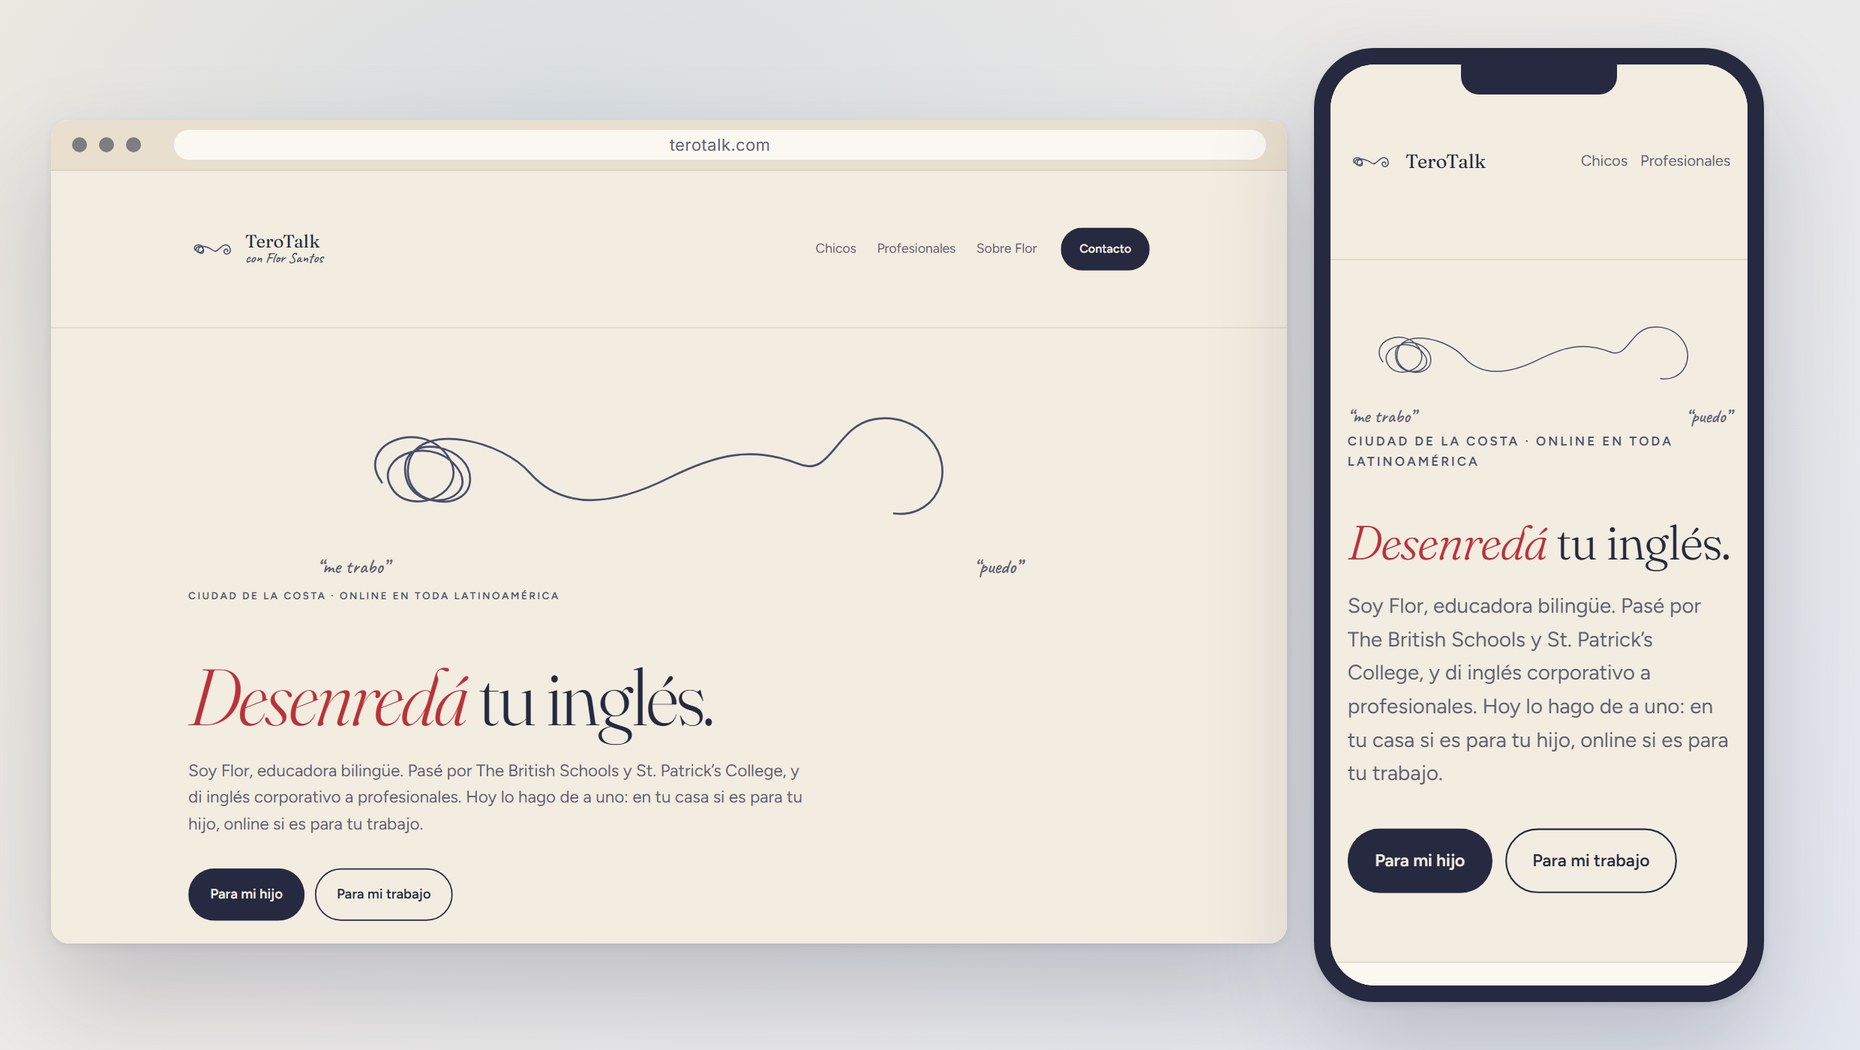
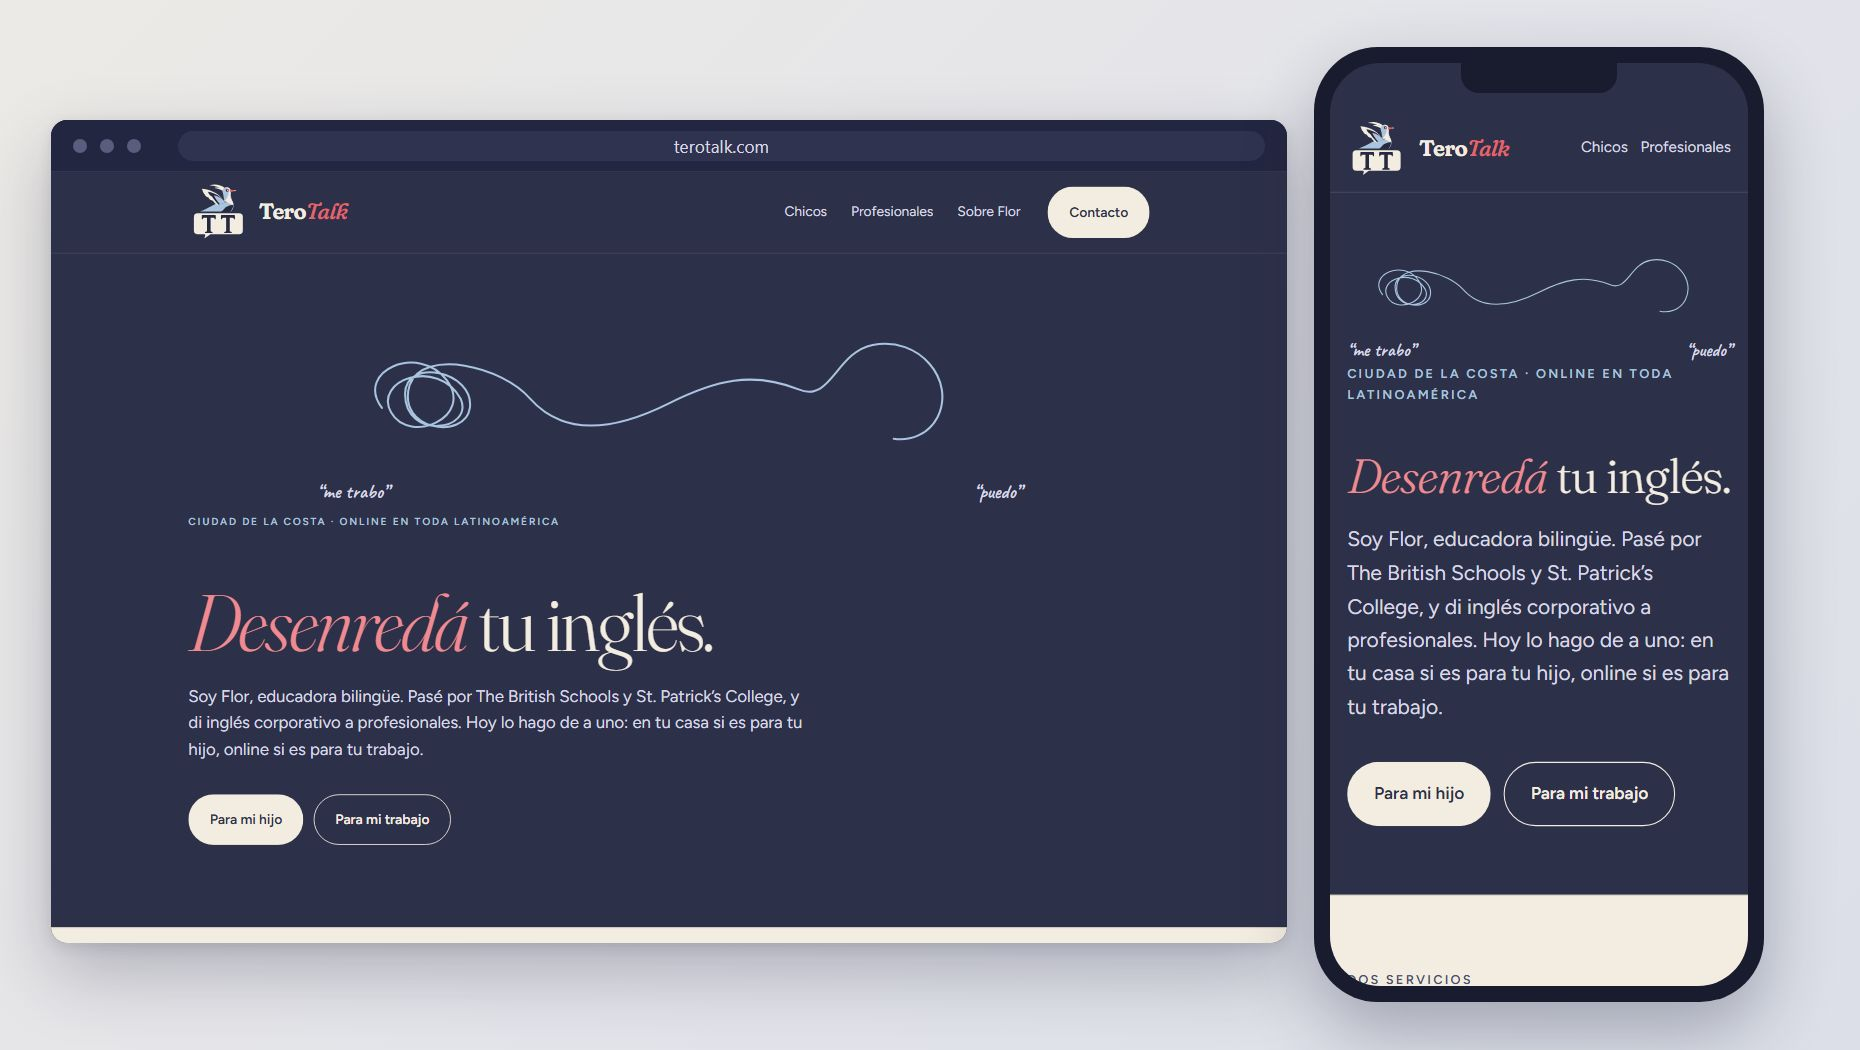
feat(theme): switch site to navy with sand bands

diff --git a/assets/css/components.css b/assets/css/components.css
@@ -48,7 +48,7 @@
 .btn__icon{width:18px;height:18px}
 .btn--primary{background:var(--red-600);color:#fff}
 .btn--primary:hover{background:var(--red-700)}
-.btn--dark{background:var(--navy-900);color:var(--sand-100)}
+.btn--solid{background:var(--color-text);color:var(--color-surface)}
 .btn--light{background:var(--sand-100);color:var(--navy-900)}
 .btn--outline{border-color:currentColor}
 .btn--outline-light{border-color:rgba(243,236,224,.5);color:var(--sand-100)}
@@ -206,14 +206,13 @@
   --color-surface-raised:transparent;
   --color-text:var(--sand-100);
   --color-text-muted:var(--lilac-200);
-  --color-accent:var(--blue-300);
   --color-brand:var(--blue-300);
   --color-border:rgba(243,236,224,.25);
   background:var(--color-surface);
   color:var(--color-text);
 }
 
-.page-hero--kids{background:linear-gradient(180deg,var(--blue-200),var(--sand-100))}
+.page-hero--kids{background:linear-gradient(180deg,var(--navy-600),var(--color-surface))}
 
 .chips{display:flex;flex-wrap:wrap;gap:var(--space-2);margin-top:var(--space-7)}
 .chip{
@@ -295,9 +294,9 @@
 .fit__list{margin-top:var(--space-4);display:grid;gap:var(--space-3)}
 .fit__item{display:grid;grid-template-columns:22px 1fr;gap:var(--space-2)}
 .fit__icon{width:18px;height:18px;margin-top:var(--space-1)}
-.fit--yes .fit__icon{color:var(--green-700)}
+.fit--yes .fit__icon{color:var(--color-positive)}
 .fit--no{background:transparent;border-style:dashed}
-.fit--no .fit__icon{color:var(--red-600)}
+.fit--no .fit__icon{color:var(--color-accent)}
 
 @media (max-width:640px){
   .fit{padding:var(--space-7) var(--space-6)}
@@ -320,7 +319,7 @@
 .price__side--dark{--color-text:var(--sand-100);background:var(--slate-600);color:var(--color-text)}
 .price__list{display:grid;gap:var(--space-3)}
 .price__item{display:grid;grid-template-columns:22px 1fr;gap:var(--space-2);font-size:var(--text-md)}
-.price__icon{width:18px;height:18px;margin-top:var(--space-1);color:var(--green-700)}
+.price__icon{width:18px;height:18px;margin-top:var(--space-1);color:var(--color-positive)}
 .price__side--dark .price__icon{color:var(--blue-300)}
 
 @media (max-width:900px){
@@ -386,7 +385,7 @@
 .faq__answer{padding:0 0 var(--space-6);color:var(--color-text-muted);max-width:64ch}
 
 .cta{text-align:center}
-.cta__thread{width:220px;margin:0 auto var(--space-6);color:var(--color-accent)}
+.cta__thread{width:220px;margin:0 auto var(--space-6);color:var(--color-brand)}
 .cta__thread path{stroke-width:3}
 .cta__title{font-size:clamp(2.2rem,5vw,3.6rem);max-width:18ch;margin-inline:auto}
 .cta__text{margin:var(--space-5) auto 0;max-width:52ch;color:var(--color-text-muted)}
@@ -397,12 +396,6 @@
   --color-text-muted:var(--lilac-200);
   --color-brand:var(--blue-300);
   --color-border:rgba(243,236,224,.12);
-  --color-logo-ink:var(--sand-100);
-  --color-logo-wing:var(--blue-300);
-  --color-logo-belly:var(--navy-900);
-  --color-logo-beak:var(--red-300);
-  --color-logo-bubble:var(--sand-100);
-  --color-logo-letters:var(--navy-900);
   --color-logo-gap:var(--navy-900);
   padding:var(--space-14) 0 var(--space-10);
   background:var(--navy-900);

diff --git a/index.html b/index.html
@@ -5,7 +5,7 @@
 <meta name="viewport" content="width=device-width,initial-scale=1">
 <title>TeroTalk · Clases de inglés en Ciudad de la Costa y online</title>
 <meta name="description" content="TeroTalk es Flor Santos, educadora bilingüe con experiencia en The British Schools. Inglés a domicilio para chicos en Ciudad de la Costa e inglés para el trabajo online en toda Latinoamérica.">
-<meta name="theme-color" content="#262940">
+<meta name="theme-color" content="#2D3049">
 <link rel="icon" href="assets/brand/favicon.svg" type="image/svg+xml">
 <link rel="canonical" href="https://barral.dev/terotalk/">
 
@@ -66,7 +66,7 @@
       <a class="site-header__link" href="professionals/">Profesionales</a>
       <a class="site-header__link site-header__link--optional" href="#about">Sobre Flor</a>
     </nav>
-    <a class="btn btn--dark" href="#contact">Contacto</a>
+    <a class="btn btn--solid" href="#contact">Contacto</a>
   </div>
 </header>
 
@@ -83,7 +83,7 @@
     <h1 class="home-hero__title"><em>Desenredá</em> tu inglés.</h1>
     <p class="lead lead--large">Soy Flor, educadora bilingüe. Pasé por The British Schools y St. Patrick’s College, y di inglés corporativo a profesionales. Hoy lo hago de a uno: en tu casa si es para tu hijo, online si es para tu trabajo.</p>
     <div class="actions">
-      <a class="btn btn--dark" href="kids/">Para mi hijo</a>
+      <a class="btn btn--solid" href="kids/">Para mi hijo</a>
       <a class="btn btn--outline" href="professionals/">Para mi trabajo</a>
     </div>
   </div>
@@ -151,7 +151,7 @@
   </div>
 </section>
 
-<section class="band band--dark" aria-labelledby="why">
+<section class="band band--soft" aria-labelledby="why">
   <div class="wrap">
     <div class="section-head">
       <span class="eyebrow">Por qué acá</span>
@@ -165,7 +165,7 @@
   </div>
 </section>
 
-<section class="band band--dark band--flush-top cta" id="contact" aria-labelledby="contact-title">
+<section class="band band--dark cta" id="contact" aria-labelledby="contact-title">
   <div class="wrap">
     <svg class="thread cta__thread" viewBox="0 0 200 80" aria-hidden="true"><use href="#knot"/></svg>
     <h2 class="cta__title" id="contact-title">Escribime y vemos <em>por dónde empezar.</em></h2>

diff --git a/professionals/index.html b/professionals/index.html
@@ -5,7 +5,7 @@
 <meta name="viewport" content="width=device-width,initial-scale=1">
 <title>Inglés para reuniones de trabajo, online · English at Work de TeroTalk</title>
 <meta name="description" content="Programa online de 6 horas, uno a uno, para profesionales que entienden inglés pero se traban al hablar en reuniones, dailies y entrevistas. Online, en toda Latinoamérica.">
-<meta name="theme-color" content="#262940">
+<meta name="theme-color" content="#2D3049">
 <link rel="icon" href="../assets/brand/favicon.svg" type="image/svg+xml">
 <link rel="canonical" href="https://barral.dev/terotalk/professionals/">
 
@@ -57,7 +57,7 @@
       <a class="site-header__link" href="./" aria-current="page">Profesionales</a>
       <a class="site-header__link site-header__link--optional" href="#program">Programa</a>
     </nav>
-    <a class="btn btn--dark" href="#book">Agendar charla</a>
+    <a class="btn btn--solid" href="#book">Agendar charla</a>
   </div>
 </header>
 
@@ -177,7 +177,7 @@
         <div class="price__amount price__amount--tbd">Precio a confirmar</div>
         <p class="price__text">Incluye las 6 sesiones individuales, el material armado con tus reuniones y el plan para seguir practicando por tu cuenta.</p>
         <div class="actions actions--tight">
-          <a class="btn btn--dark" href="https://wa.me/?text=Hi%20Flor!%20Quer%C3%ADa%20agendar%20la%20charla%20de%2015%20minutos%20por%20English%20at%20Work." target="_blank" rel="noopener"><svg class="btn__icon" aria-hidden="true"><use href="#chat"/></svg>Agendar charla de 15 min</a>
+          <a class="btn btn--solid" href="https://wa.me/?text=Hi%20Flor!%20Quer%C3%ADa%20agendar%20la%20charla%20de%2015%20minutos%20por%20English%20at%20Work." target="_blank" rel="noopener"><svg class="btn__icon" aria-hidden="true"><use href="#chat"/></svg>Agendar charla de 15 min</a>
         </div>
       </div>
       <div class="price__side price__side--dark">

diff --git a/assets/css/tokens.css b/assets/css/tokens.css
@@ -1,5 +1,8 @@
 :root{
   --navy-900:#262940;
+  --navy-800:#2D3049;
+  --navy-700:#363A58;
+  --navy-600:#41456A;
   --slate-600:#4A4E6D;
   --slate-500:#5F6073;
   --lilac-200:#D9D8E5;
@@ -11,28 +14,31 @@
   --red-600:#B8323A;
   --red-700:#9A2830;
   --red-300:#E0666D;
+  --red-200:#F08A90;
   --blue-300:#A9C4DE;
   --blue-200:#DCE7F1;
   --green-700:#355E52;
+  --green-300:#8FC1A9;
 
-  --color-surface:var(--sand-100);
-  --color-surface-raised:var(--sand-50);
-  --color-surface-sunken:var(--sand-200);
-  --color-text:var(--navy-900);
-  --color-text-muted:var(--slate-500);
-  --color-accent:var(--red-600);
+  --color-surface:var(--navy-800);
+  --color-surface-raised:var(--navy-700);
+  --color-surface-sunken:var(--navy-900);
+  --color-text:var(--sand-100);
+  --color-text-muted:var(--lilac-200);
+  --color-accent:var(--red-200);
   --color-accent-strong:var(--red-700);
   --color-on-accent:#fff;
-  --color-brand:var(--slate-600);
-  --color-border:var(--sand-300);
+  --color-brand:var(--blue-300);
+  --color-border:rgba(243,236,224,.14);
+  --color-positive:var(--green-300);
   --color-map-area:var(--green-700);
   --color-map-base:var(--red-600);
-  --color-logo-ink:var(--navy-900);
-  --color-logo-wing:var(--slate-600);
-  --color-logo-belly:var(--sand-50);
-  --color-logo-beak:var(--red-600);
-  --color-logo-bubble:var(--navy-900);
-  --color-logo-letters:var(--sand-100);
+  --color-logo-ink:var(--sand-100);
+  --color-logo-wing:var(--blue-300);
+  --color-logo-belly:var(--navy-900);
+  --color-logo-beak:var(--red-300);
+  --color-logo-bubble:var(--sand-100);
+  --color-logo-letters:var(--navy-900);
   --color-logo-gap:var(--color-surface);
 
   --space-1:4px;

diff --git a/assets/css/site.css b/assets/css/site.css
@@ -12,7 +12,7 @@
 }
 
 @layer base{
-  html{scroll-behavior:smooth;scroll-padding-top:var(--header-offset)}
+  html{color-scheme:dark;scroll-behavior:smooth;scroll-padding-top:var(--header-offset)}
 
   body{
     background:var(--color-surface);
@@ -57,17 +57,24 @@
     --color-surface-raised:rgba(243,236,224,.05);
     --color-text:var(--sand-100);
     --color-text-muted:var(--lilac-200);
-    --color-accent:var(--blue-300);
     --color-brand:var(--blue-300);
     --color-border:rgba(243,236,224,.18);
     background:var(--color-surface);
     color:var(--color-text);
   }
 
-  .band--flush-top{padding-top:0}
 
   .band--soft{
-    --color-surface:var(--sand-50);
+    --color-surface:var(--sand-100);
+    --color-surface-raised:var(--sand-50);
+    --color-surface-sunken:var(--sand-200);
+    --color-text:var(--navy-900);
+    --color-text-muted:var(--slate-500);
+    --color-accent:var(--red-600);
+    --color-brand:var(--slate-600);
+    --color-border:var(--sand-300);
+    --color-positive:var(--green-700);
+    color:var(--color-text);
     background:var(--color-surface);
     border-block:1px solid var(--color-border);
   }

diff --git a/kids/index.html b/kids/index.html
@@ -5,7 +5,7 @@
 <meta name="viewport" content="width=device-width,initial-scale=1">
 <title>Clases de inglés a domicilio para chicos en Ciudad de la Costa · Teacher Flor de TeroTalk</title>
 <meta name="description" content="Maestra bilingüe con experiencia en The British Schools da clases de inglés a domicilio para chicos de primaria en Ciudad de la Costa: Shangrilá, Lagomar, Solymar, El Pinar y alrededores.">
-<meta name="theme-color" content="#262940">
+<meta name="theme-color" content="#2D3049">
 <link rel="icon" href="../assets/brand/favicon.svg" type="image/svg+xml">
 <link rel="canonical" href="https://barral.dev/terotalk/kids/">
 

diff --git a/CLAUDE.md b/CLAUDE.md
@@ -75,7 +75,7 @@ professionals/index.html       English at Work: the 6-hour program
 assets/css/site.css            Entry: layer order, imports, reset, base, layout, utilities
 assets/css/tokens.css          Primitives, semantic aliases, spacing and type scales
 assets/css/components.css      Every component block, BEM
-assets/brand/favicon.svg       The logo on a sand tile
+assets/brand/favicon.svg       The logo on a navy tile
 assets/brand/logo.svg          Logo: tero nesting in a TT speech bubble, wing raised (logo-dark.svg for navy)
 assets/brand/logo.png          1024px exports of the logo, light and dark, for use outside the site
 assets/brand/quality-seal.svg  Quality seal, not used on the site yet (see §7); PNG exports beside it
@@ -129,22 +129,32 @@ one line in `tokens.css`.
 
 | Semantic token | Primitive | Role |
 |---|---|---|
-| `--color-surface` | `--sand-100` `#F3ECE0` | Page background |
-| `--color-surface-raised` | `--sand-50` `#FBF8F2` | Cards, chips, raised panels |
-| `--color-surface-sunken` | `--sand-200` `#E9DFCE` | Recessed panels |
-| `--color-text` | `--navy-900` `#262940` | Body and headings |
-| `--color-text-muted` | `--slate-500` `#5F6073` | Secondary text |
-| `--color-accent` | `--red-600` `#B8323A` | Emphasis, focus ring, primary CTA |
+| `--color-surface` | `--navy-800` `#2D3049` | Page background (the README banner navy) |
+| `--color-surface-raised` | `--navy-700` `#363A58` | Cards, chips, raised panels |
+| `--color-surface-sunken` | `--navy-900` `#262940` | Recessed panels |
+| `--color-text` | `--sand-100` `#F3ECE0` | Body and headings |
+| `--color-text-muted` | `--lilac-200` `#D9D8E5` | Secondary text |
+| `--color-accent` | `--red-200` `#F08A90` | Emphasis, focus ring, italic heading turns |
 | `--color-accent-strong` | `--red-700` `#9A2830` | CTA hover only |
-| `--color-brand` | `--slate-600` `#4A4E6D` | Eyebrows, handwriting, brand mark |
-| `--color-border` | `--sand-300` `#DCD2C0` | Every hairline |
+| `--color-brand` | `--blue-300` `#A9C4DE` | Eyebrows, handwriting, threads |
+| `--color-border` | sand at 14% | Every hairline |
+| `--color-positive` | `--green-300` `#8FC1A9` | Check icons in lists |
 | `--color-map-area` / `--color-map-base` | `--green-700` / `--red-600` | Coverage map only |
-| `--color-logo-*` | navy, slate, sand, `--red-600` | The `#logo` symbol and the red *Talk* of the wordmark; `--color-logo-gap` is the ring that separates the bird from the bubble and must match the background. `.site-footer` rebinds them, with `--red-300` `#E0666D` for the beak |
+| `--color-logo-*` | sand, `--blue-300`, `--red-300` `#E0666D` | The `#logo` symbol and the red *Talk* of the wordmark; `--color-logo-gap` is the ring that separates the bird from the bubble and must match the background |
 
-**Dark sections never override a component.** `.band--dark`, `.page-hero--dark` and
-`.site-footer` rebind the semantic tokens on themselves, so every component inside adapts
-without a single descendant selector. Accent discipline: red is the only saturated colour
-and it means "act here"; in a dark context the rebinding swaps it for `--blue-300`.
+**The site is dark, broken by sand.** The base is `--navy-800`. `.band--soft` is the
+counterpoint: it rebinds every semantic token to the light set (`--sand-100` surface,
+`--navy-900` text, `--red-600` accent, `--slate-600` brand) so pages alternate navy and sand.
+`.band--dark`, `.page-hero--dark` and `.site-footer` sink a section to `--navy-900`. The kids
+door (`.door--kids`, `--blue-300`) stays light blue so the two doors read as two businesses. Primary CTAs stay `--red-600` with white text (5.9:1); `--red-200` is
+the accent for text because `--red-600` fails contrast on navy. `.btn--solid` is the inverse
+button: text colour as background, surface colour as text.
+
+**Dark sections never override a component.** Every section rebinds the semantic tokens on
+itself, so every component inside adapts without a single descendant selector. Accent
+discipline: red is the only saturated colour and it means "act here". On every navy surface
+the accent is `--red-200`; on sand it is `--red-600`. Blue stays in its lane as
+`--color-brand` (eyebrows, threads, handwriting) and never carries the italic turn.
 
 Spacing is a 4px scale, `--space-1` to `--space-24`. No component invents a padding.
 
